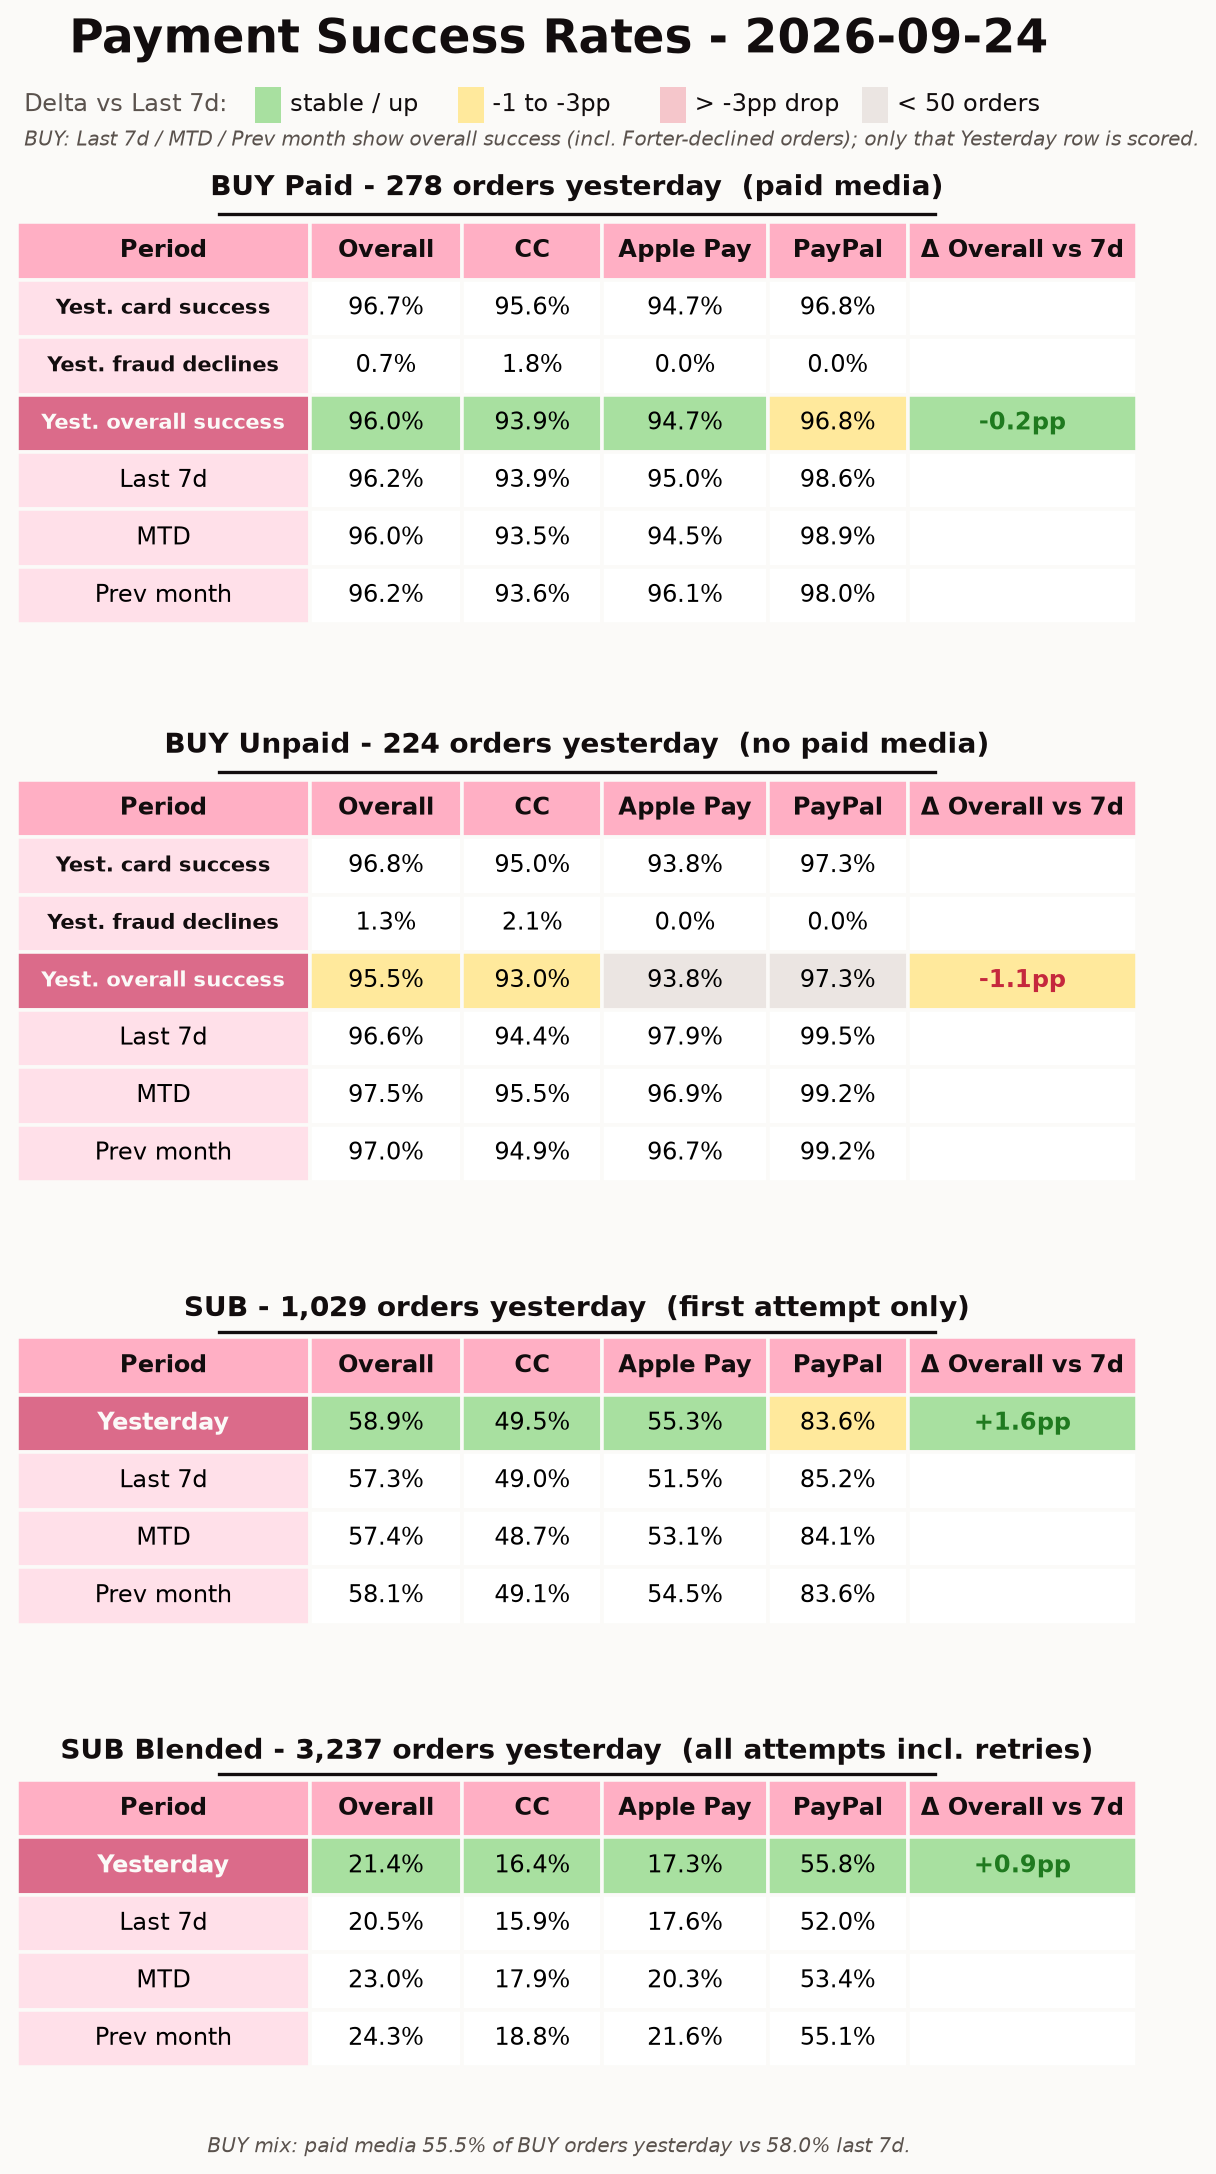
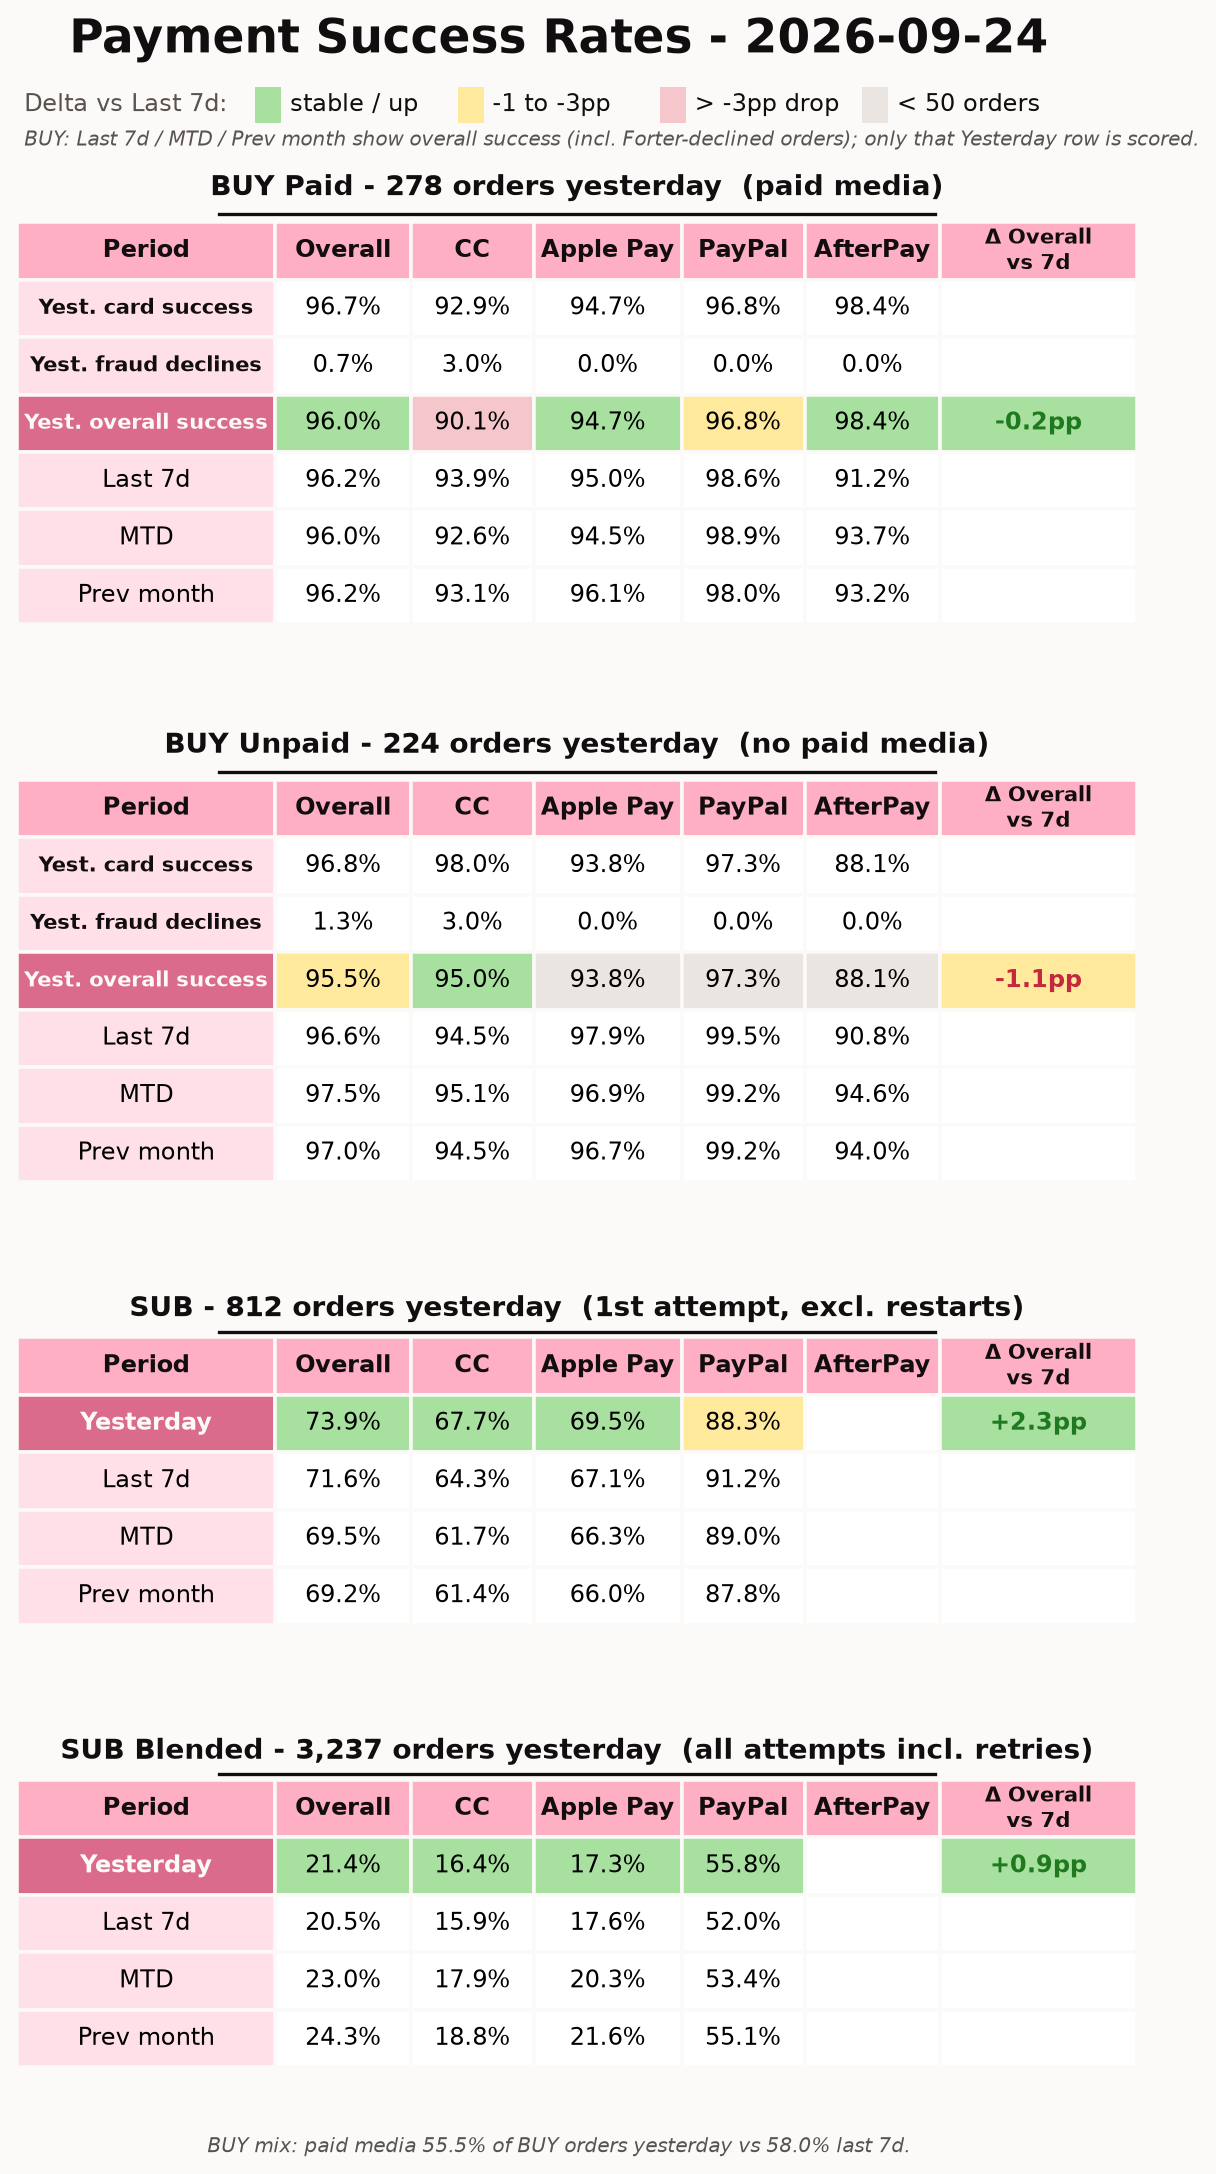
Split AfterPay out of Credit Card; SUB = attempt 1 of billing cycle 1
- AfterPay (EcType 'AfterPay') had no case in the payment-method mapping and
  fell into Credit Card (~30% of the CC column). It is now its own column;
  CC means real cards only. AfterPay has no Spreedly record, so its outcome
  comes from cdc IsSuccessful and it carries no Forter pre-auth flag.
- SUB first attempt now excludes cycle 2/3 restarts: a failed cycle restarts
  at AttemptsAmount=1 with the same RecurringNumber. Cycle 1 = first
  attempt-1 order per (SubscriptionId, RecurringNumber). The recurring-orders
  view is deduplicated first (duplicate rows per RecurringOrderId).
- SUB tables leave the AfterPay column blank (no SUB AfterPay orders).

Claude-Session: https://claude.ai/code/session_01Bf6k2EmHxJKCK1oXwMqin2

diff --git a/run_daily_payments.py b/run_daily_payments.py
@@ -23,13 +23,11 @@ Usage:
 Expected JSON shape — a list of period rows. Each row has a ``Period`` key
 ("P4. Yesterday", "P3. Last 7d", "P2. MTD (excl yesterday)", "P1. Previous month")
 and the columns produced by the SQL:
-  BuyPaid_Total   / BuyPaid_Overall   / BuyPaid_CC   / BuyPaid_AP   / BuyPaid_PP
-  BuyUnpaid_Total / BuyUnpaid_Overall / BuyUnpaid_CC / BuyUnpaid_AP / BuyUnpaid_PP
-  Sub_Total       / Sub_Overall       / Sub_CC       / Sub_AP       / Sub_PP
-  SubAll_Total    / SubAll_Overall    / SubAll_CC    / SubAll_AP    / SubAll_PP
-  <funnel>_CC_N / <funnel>_AP_N / <funnel>_PP_N  (per-method order counts)
+  <funnel>_Total / <funnel>_Overall / <funnel>_CC / _AP / _PP / _AF
+    for <funnel> in BuyPaid, BuyUnpaid, Sub, SubAll  (AF = AfterPay)
+  <funnel>_CC_N / _AP_N / _PP_N / _AF_N  (per-method order counts)
   BUY only: <funnel>_<m>_Fraud / <funnel>_<m>_TotalSucc / <funnel>_<m>_AllN for
-  <m> in (Overall, CC, AP, PP), with <funnel>_AllOrders as the Overall count
+  <m> in (Overall, CC, AP, PP, AF), with <funnel>_AllOrders as the Overall count
   BuyPaid_Share
 
 TRY was retired on 23 Aug 2026. BUY is split by acquisition source using the
@@ -43,6 +41,9 @@ excluded), Forter fraud declines, and overall success (all orders). Only the
 overall success row is traffic-lighted, against overall success over the last
 7 days. Last 7d / MTD / Prev month show overall success too, so the Δ can be
 read straight off the table.
+
+A payment method with no orders in any period for a table (AfterPay in SUB) is
+left blank rather than shown as n/a.
 """
 
 import json
@@ -68,16 +69,17 @@ PERIOD_FROM_KEY = {
     "P2. MTD (excl yesterday)": "MTD",
     "P1. Previous month":       "Prev month",
 }
-METRICS = [("Overall", "Overall"), ("CC", "CC"), ("AP", "Apple Pay"), ("PP", "PayPal")]
+METRICS = [("Overall", "Overall"), ("CC", "CC"), ("AP", "Apple Pay"), ("PP", "PayPal"),
+           ("AF", "AfterPay")]
 BUY_FUNNELS = {"BuyPaid", "BuyUnpaid"}
 FUNNELS = [
     ("BuyPaid",   "BUY Paid",   "paid media"),
     ("BuyUnpaid", "BUY Unpaid", "no paid media"),
-    ("Sub",       "SUB",        "first attempt only"),
+    ("Sub",       "SUB",        "1st attempt, excl. restarts"),
     ("SubAll",    "SUB Blended", "all attempts incl. retries"),
 ]
 # one column grid for every table so columns line up down the page
-COL_WIDTHS = [0.23, 0.12, 0.11, 0.13, 0.11, 0.18]
+COL_WIDTHS = [0.21, 0.11, 0.10, 0.12, 0.10, 0.11, 0.16]
 MIN_SCORED_ORDERS = 50   # yesterday's per-method cells below this are not scored
 
 # MAËLYS brand palette (semantic traffic-light colors kept for status)
@@ -117,6 +119,7 @@ def _style_table(tbl, n_cols: int, yest_delta_tx: str, yest_rows: int = 1) -> No
         yc = tbl[(i, 0)]
         yc.get_text().set_color(YEST_PERIOD_TX if i == yest_rows else INK)
         yc.get_text().set_fontweight("bold")
+    tbl[(0, n_cols - 1)].get_text().set_fontsize(9)   # two-line delta header
     dc = tbl[(yest_rows, n_cols - 1)]
     dc.get_text().set_color(yest_delta_tx)
     dc.get_text().set_fontweight("bold")
@@ -161,7 +164,7 @@ def render_funnel(ax, prefix: str, short_title: str, rows: dict, note: str = Non
         title += f"  ({note})"
     _title(ax, title)
 
-    col_labels = ["Period"] + [m[1] for m in METRICS] + ["Δ Overall vs 7d"]
+    col_labels = ["Period"] + [m[1] for m in METRICS] + ["Δ Overall\nvs 7d"]
     cell_text, cell_colors = [], []
 
     def n_for(r, code, all_orders):
@@ -169,17 +172,24 @@ def render_funnel(ax, prefix: str, short_title: str, rows: dict, note: str = Non
             return r.get(f"{prefix}_AllOrders") if all_orders else r[f"{prefix}_Total"]
         return r.get(f"{prefix}_{code}_AllN" if all_orders else f"{prefix}_{code}_N")
 
+    # methods with no orders in any period for this table are left blank
+    unused = {c for c, _ in METRICS if c != "Overall"
+              and not any(rows[p].get(f"{prefix}_{c}_N") for p in PERIODS)}
+
+    def fmt(r, code, suffix=""):
+        return "" if code in unused else _pct(r.get(f"{prefix}_{code}{suffix}"))
+
     if is_buy:
         # Row 1: card success, row 2: Forter fraud declines (plain numbers)
         for label, suffix in (("Yest. card success", ""), ("Yest. fraud declines", "_Fraud")):
-            cell_text.append([label] + [_pct(y.get(f"{prefix}_{c}{suffix}")) for c, _ in METRICS] + [""])
+            cell_text.append([label] + [fmt(y, c, suffix) for c, _ in METRICS] + [""])
             cell_colors.append([YEST_SUB_BG] + ["white"] * (len(METRICS) + 1))
         # Row 3: overall success incl. Forter-blocked, scored vs the same metric last 7d
         vals, colors = ["Yest. overall success"], [YEST_PERIOD_BG]
         for code, _ in METRICS:
             v, base = y.get(f"{prefix}_{code}_TotalSucc"), l7.get(f"{prefix}_{code}_TotalSucc")
-            vals.append(_pct(v))
-            colors.append(_score(v, base, n_for(y, code, True)))
+            vals.append(fmt(y, code, "_TotalSucc"))
+            colors.append("white" if code in unused else _score(v, base, n_for(y, code, True)))
         d_txt, d_bg, delta = _delta_cell(y.get(f"{prefix}_Overall_TotalSucc"),
                                          l7.get(f"{prefix}_Overall_TotalSucc"))
         cell_text.append(vals + [d_txt])
@@ -188,9 +198,9 @@ def render_funnel(ax, prefix: str, short_title: str, rows: dict, note: str = Non
     else:
         vals, colors = ["Yesterday"], [YEST_PERIOD_BG]
         for code, _ in METRICS:
-            v, base = y[f"{prefix}_{code}"], l7[f"{prefix}_{code}"]
-            vals.append(_pct(v))
-            colors.append(_score(v, base, n_for(y, code, False)))
+            v, base = y.get(f"{prefix}_{code}"), l7.get(f"{prefix}_{code}")
+            vals.append(fmt(y, code))
+            colors.append("white" if code in unused else _score(v, base, n_for(y, code, False)))
         d_txt, d_bg, delta = _delta_cell(y[f"{prefix}_Overall"], l7[f"{prefix}_Overall"])
         cell_text.append(vals + [d_txt])
         cell_colors.append(colors + [d_bg])
@@ -200,7 +210,7 @@ def render_funnel(ax, prefix: str, short_title: str, rows: dict, note: str = Non
     hist_suffix = "_TotalSucc" if is_buy else ""
     for period in PERIODS[1:]:
         r = rows[period]
-        cell_text.append([period] + [_pct(r.get(f"{prefix}_{c}{hist_suffix}")) for c, _ in METRICS] + [""])
+        cell_text.append([period] + [fmt(r, c, hist_suffix) for c, _ in METRICS] + [""])
         cell_colors.append([PERIOD_BG] + ["white"] * (len(METRICS) + 1))
 
     tbl = ax.table(

diff --git a/README.md b/README.md
@@ -6,7 +6,7 @@ Daily monitoring of payment success rates for the live funnels (BUY Paid, BUY Un
 
 | File | Purpose |
 |---|---|
-| `payment method success rates by funnel.sql` | **Routine query.** Returns 4 periods × 4 funnels (`BuyPaid`, `BuyUnpaid`, `Sub`, `SubAll`) × (`Total`, `Overall`, `CC`, `AP`, `PP`, plus per-method order counts `CC_N`/`AP_N`/`PP_N`), for BUY the Forter split per column (`<m>_Fraud`, `<m>_TotalSucc`, `<m>_AllN`, `AllOrders`) and `BuyPaid_Share`. |
+| `payment method success rates by funnel.sql` | **Routine query.** Returns 4 periods × 4 funnels (`BuyPaid`, `BuyUnpaid`, `Sub`, `SubAll`) × (`Total`, `Overall`, `CC`, `AP`, `PP`, `AF`, plus per-method order counts `CC_N`/`AP_N`/`PP_N`/`AF_N`), for BUY the Forter split per column (`<m>_Fraud`, `<m>_TotalSucc`, `<m>_AllN`, `AllOrders`) and `BuyPaid_Share`. |
 | `run_daily_payments.py` | Reads the BQ result JSON, renders the daily PNG, commits + pushes it to the current branch, and posts the Slack `image` block. |
 | `payments.png` | Latest rendered image; referenced by Slack via `raw.githubusercontent.com`. |
 | `archive/try funnel daily monitoring.sql` | Retired TRY deep-dive (AO vs AM auth, fraud vs payment-fail shipping). Kept for reference only; TRY stopped selling on 23 Aug 2026. |
@@ -39,11 +39,13 @@ The functions are applied to the order's own UTMs in `cdc.OrdersNew_v`, not to `
 
 **BUY / SUB** follow Redash #1613 (BUY Success Rate Timeline):
 - `TransactionType=0` / `CAPTURE_FULL`; `SUB = SitePart IN (10,12)` or Spreedly `Metadata_order_type='SUB'`; everything else is BUY
+- Payment methods: Credit Card (CC, real cards only), Apple Pay (AP), PayPal (PP), AfterPay (AF). AfterPay does not route through Spreedly, so it has no Spreedly record and no Forter pre-auth flag; its outcome comes from `cdc.PaymentTransactions_v.IsSuccessful` (checked: 0 AfterPay orders marked successful but unpaid in 28 days). Before 26 Sep 2026 AfterPay fell into the CC column (~30% of it). SUB has no AfterPay orders, so that column is blank in the SUB tables.
 - CC fraud-blocked orders excluded from the success-rate denominator
 - TRY orders are excluded from BUY and SUB: any order in `cdc.TbybOrders_v`, or with a TRY auth (`TransactionType=7`) in the window. Without this, TRY shipping and post-trial charges that have no Spreedly metadata (PayPal) fell through the `'BUY'` fallback. The TRY checkouts still coming in are customers completing old carts saved in their browser; they are immaterial and not reported.
 - `OrdersNew_v.PrepaidConverted` orders are still excluded from BUY (the flow ended with TRY; ~20% approval would add noise)
-- SUB is restricted to the first billing attempt (`subscriptions.SubscriptionsRecurringOrders_v.AttemptsAmount = 1`)
-- SUB Blended takes every SUB order. Each retry is its own recurring order ID charged on a single day, so each order counts once on its processing date. The blended rate sits far below the first-attempt rate: on 24 Sep, 1,029 first attempts approved at 58.9% and 2,208 retries at ~3.9%, so 3,237 orders were approved at 21.4%. It moves with the retry mix as well as with payments health.
+- SUB is restricted to **attempt 1 of billing cycle 1**. When a cycle fails all 6 attempts, the next month restarts at `AttemptsAmount = 1` with the **same** `RecurringNumber`, so `AttemptsAmount = 1` alone also picked up cycle 2 and 3 restarts (~18% of attempt-1 orders, 2 to 5% approval). Cycle 1 = the first `AttemptsAmount = 1` order for a (`SubscriptionId`, `RecurringNumber`), over full history. Restarts stay in SUB Blended. Changed on 26 Sep 2026: on 24 Sep this moved SUB from 1,029 orders at 58.9% to 812 at 73.9%.
+- `subscriptions.SubscriptionsRecurringOrders_v` carries duplicate rows (~37% of `RecurringOrderId`s); the query deduplicates before use.
+- SUB Blended takes every SUB order. Each retry is its own recurring order ID charged on a single day, so each order counts once on its processing date. The blended rate sits far below the first-attempt rate: on 24 Sep, 812 cycle-1 first attempts approved at 73.9% and 2,425 retries and restarts at ~3.8%, so 3,237 orders were approved at 21.4%. It moves with the retry mix as well as with payments health.
 
 Common across all funnels:
 - Source: `cdc.PaymentTransactions_v` `LEFT JOIN spreedly.transaction_report_v` on `OrchestratorToken`
@@ -92,7 +94,7 @@ Slack `image` blocks require a publicly fetchable HTTPS URL. The Claude Code Rem
 A single PNG with:
 - **Page title:** `Payment Success Rates - YYYY-MM-DD`
 - **Legend:** `Delta vs Last 7d:` followed by colored swatches: `stable / up`, `-1 to -3pp`, `> -3pp drop`, `< 50 orders`
-- **One table per funnel** (BUY Paid, BUY Unpaid, SUB, SUB Blended at the bottom) with rows `Yesterday | Last 7d | MTD | Prev month` and columns `Period | Overall | CC | Apple Pay | PayPal | Δ Overall vs 7d`
+- **One table per funnel** (BUY Paid, BUY Unpaid, SUB, SUB Blended at the bottom) with rows `Yesterday | Last 7d | MTD | Prev month` and columns `Period | Overall | CC | Apple Pay | PayPal | AfterPay | Δ Overall vs 7d`
 - **BUY tables** have three Yesterday rows (`Yest. card success`, `Yest. fraud declines`, `Yest. overall success`) above `Last 7d | MTD | Prev month`
 - **Footer:** paid media share of BUY orders (yesterday vs last 7d)
 
